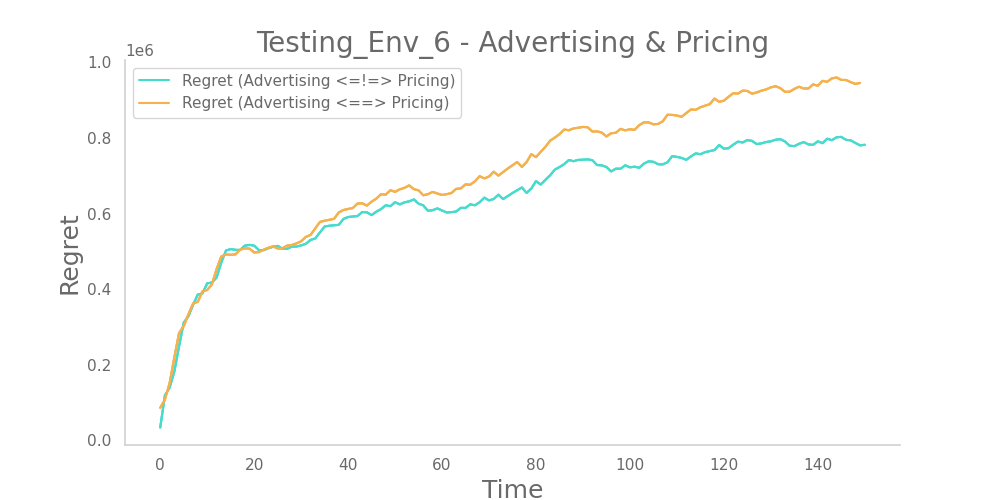
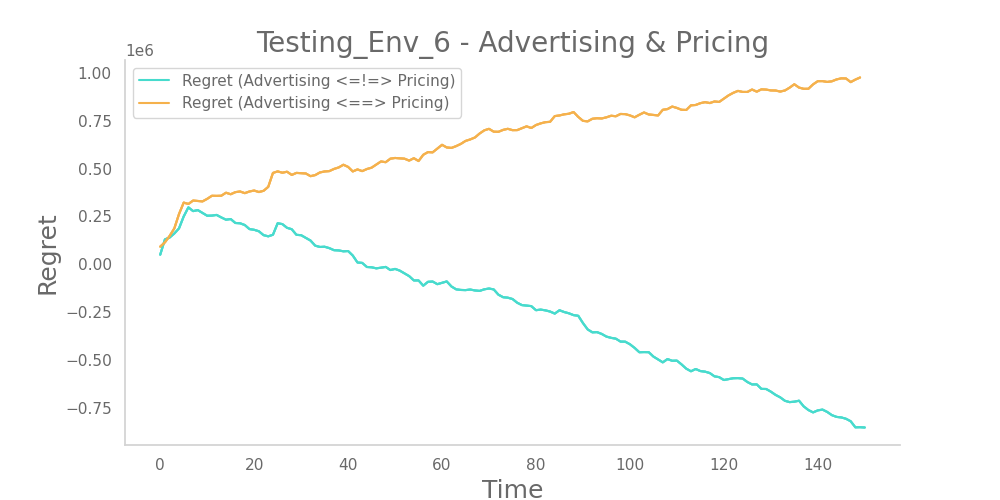
use last price instead of history

diff --git a/project/part_6/SubCampaignHandler.py b/project/part_6/SubCampaignHandler.py
@@ -37,6 +37,8 @@ class SubCampaignHandler:
         self.daily_revenue = 0
         self.daily_clicks = 0
 
+        self.price = 0
+
     def daily_update(self, pulled_arm):
         """
             Daily update
@@ -46,6 +48,7 @@ class SubCampaignHandler:
         # extracting the daily reward from the TS
         self.daily_clicks = self.advertising.get_daily_clicks(pulled_arm)
         self.daily_revenue = self.pricing.get_daily_revenue(self.daily_clicks)
+        self.price = self.daily_revenue / self.daily_clicks if self.daily_clicks != 0 else self.price
 
         daily_regret = self.get_daily_regret(self.daily_clicks, self.advertising.optimal_clicks,
                                              self.daily_revenue, self.pricing.optimal_revenue)

diff --git a/project/part_6/BudgetAllocator.py b/project/part_6/BudgetAllocator.py
@@ -50,8 +50,9 @@ class BudgetAllocator:
         for subcampaign_handler in self.msh.subcampaigns_handlers:
             learner_clicks = subcampaign_handler.get_updated_parameters().means
 
-            n_clicks = subcampaign_handler.total_clicks
-            v = subcampaign_handler.total_revenue / n_clicks if n_clicks != 0 else 0
+            #n_clicks = subcampaign_handler.total_clicks
+            #v = subcampaign_handler.total_revenue / n_clicks if n_clicks != 0 else 0
+            v = subcampaign_handler.price
             revenue_clicks = np.multiply(learner_clicks, v) if self.enable_pricing else learner_clicks
 
             table_all_subs = np.append(table_all_subs, np.atleast_2d(revenue_clicks.T), 0)

diff --git a/project/part_6/Testing_Env_6.py b/project/part_6/Testing_Env_6.py
@@ -13,7 +13,7 @@ from project.dia_pckg.plot_style.cb91visuals import *
 from project.part_4.MultiClassHandler import MultiClassHandler
 from project.part_6.BudgetAllocator import BudgetAllocator
 
-np.random.seed(0)
+np.random.seed(1764)
 
 enable_pricing = True
 plot_advertising = False
